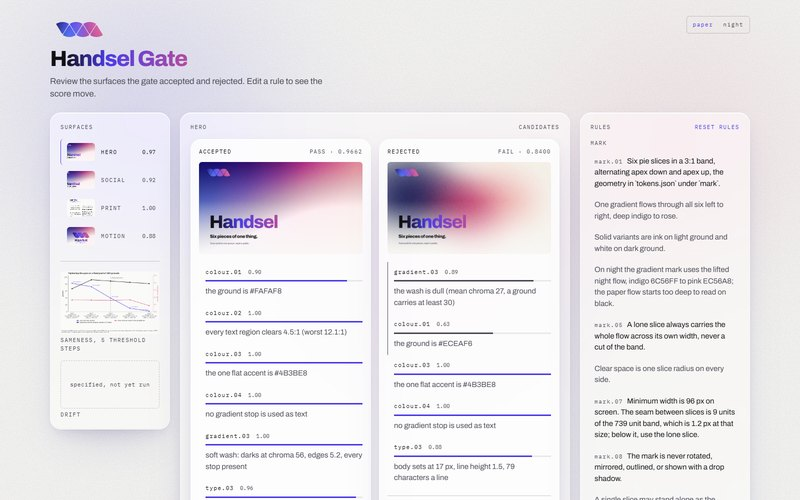
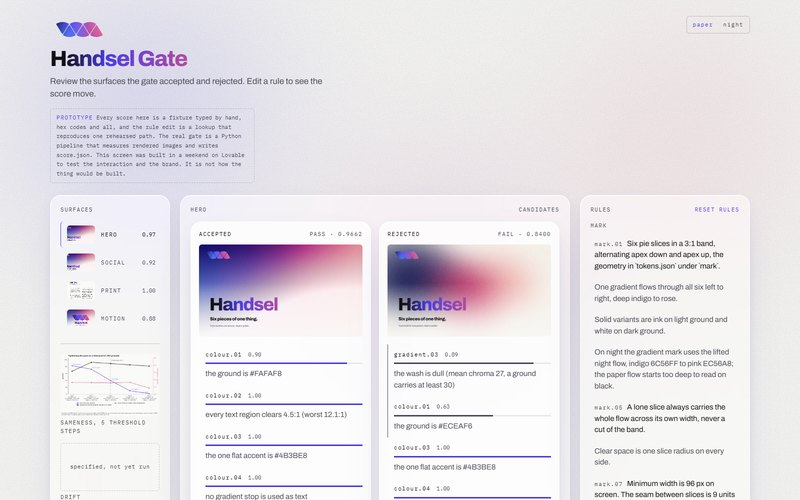
say on the page that the review UI is a prototype, because it looks more finished than it is
The screen reads as a running system and it is not one. Every score on it is a fixture
somebody typed, hex codes and all: `reason: "the ground is #FAFAF8"` is a string, not a
measurement, and rescore.ts is a lookup that reproduces one rehearsed path. A reviewer who
does not know that is reading hand-written constants as output.

So the caveat goes on the page itself, under the title, not only in the README: what it
tests is whether rules written as plain sentences can be the interface a person edits, and
whether a generated app can be held to a brand by construction. Both answered yes. How it
would actually be built is dull and already half there, since the Python gate writes a
score.json per candidate and the fixtures are that file's shape on purpose.

The site's card for it says the same in one line, and the card face is recut from the local
build so the note is visible on it.

diff --git a/site/index.html b/site/index.html
@@ -300,7 +300,7 @@
   <div class="tools">
     <a class="tool glass" href="https://handsel-gate.lovable.app/">
       <img src="assets/tool-gate.jpg" srcset="assets/tool-gate-800.jpg 800w, assets/tool-gate.jpg 1600w" sizes="(min-width: 900px) 560px, 100vw" width="1600" height="1000" alt="Handsel Gate running: a surface list down the left, the accepted and refused hero side by side with their rule scores, and the editable rules panel on the right" loading="lazy">
-      <div class="t"><b>Handsel Gate</b><span>The review tool a brand team would actually sit in, wearing the brand it judges. Every surface, every score, and the sentence that produced it. Built on Lovable, then taken apart and put on the tokens.</span><small>handsel-gate.lovable.app</small></div>
+      <div class="t"><b>Handsel Gate</b><span>Every surface, every score, and the sentence that produced it, with the rule editable in place. A weekend prototype built on Lovable, and the one piece here that is not production: its scores are fixtures typed by hand, and the real gate is a Python pipeline. What it tests is whether rules written as sentences can be the interface, and whether a generated app can be held to a brand by construction.</span><small>handsel-gate.lovable.app</small></div>
     </a>
     <a class="tool glass" href="https://github.com/prekabreki/ck3-llm-chronicler">
       <img src="assets/ck3-chronicle.jpg" srcset="assets/ck3-chronicle-800.jpg 800w, assets/ck3-chronicle.jpg 1600w" sizes="(min-width: 900px) 560px, 100vw" width="1600" height="1000" alt="A chronicle page in the ck3 chronicler: a drop-capped biography set on vellum, the character's arms and titles down the left margin" loading="lazy">

diff --git a/handsgate/src/routes/index.tsx b/handsgate/src/routes/index.tsx
@@ -110,6 +110,19 @@ function HandselGate() {
             <p className="mt-3 max-w-[60ch] text-fg-soft">
               Review the surfaces the gate accepted and rejected. Edit a rule to see the score move.
             </p>
+            {/*
+              Said on the page, not just in the README. A reviewer who does not know this
+              is reading fixtures as if they were a running system, and the first thing
+              they will notice is the hand-typed hex codes in the reasons.
+            */}
+            <p className="mt-4 max-w-[62ch] rounded-chip border border-dashed border-hairline px-3 py-2 font-mono text-[11px] leading-[1.7] text-fg-soft">
+              <span className="tracking-[0.14em] text-indigo uppercase">prototype</span>{" "}
+              Every score here is a fixture typed by hand, hex codes and all, and the rule edit
+              is a lookup that reproduces one rehearsed path. The real gate is a Python pipeline
+              that measures rendered images and writes <code>score.json</code>. This screen was
+              built in a weekend on Lovable to test the interaction and the brand. It is not how
+              the thing would be built.
+            </p>
           </div>
           <ThemeToggle theme={theme} onChange={selectTheme} />
         </header>

diff --git a/handsgate/README.md b/handsgate/README.md
@@ -4,11 +4,31 @@ The screen a brand team uses to review generated brand surfaces that the scoring
 accepted or rejected. The tool is itself a Handsel surface: it is set in the brand type,
 sits on the flow wash, and answers to the same rules it reviews.
 
-It is a static React review tool. There is no login and no backend. Data comes from typed
-fixtures under `src/fixtures/`, shaped the way the gate's own output is shaped, so the app
-can later read the same JSON from disk.
-
 Live build: https://handsel-gate.lovable.app
+
+## What this is, and what it is not
+
+It is a prototype, built in a weekend on Lovable, and it is worth being blunt about that
+because the screen looks more finished than it is.
+
+**It is** a test of two things: whether rules written as plain sentences can be the actual
+interface a person edits, and whether a generated app can be held to a brand by construction.
+Both answered yes. The rehearsed edit works, and every colour, font, radius and rule sentence
+in here is generated from `brand/tokens.json` and `brand/rules.json` rather than typed.
+
+**It is not** how this would be built. Every score on the page is a fixture typed by hand,
+hex codes and all: `reason: "the ground is #FAFAF8"` is a string somebody wrote, not a
+measurement. `src/gate/rescore.ts` is a lookup that reproduces one rehearsed path, not a
+scorer. Nothing reads the filesystem, nothing calls the pipeline, and there is no backend.
+
+In production the shape is obvious and dull: the Python gate in `pipeline/` already writes a
+`score.json` per candidate, the fixtures in `src/fixtures/` are that file's shape on purpose,
+and `rescore.ts` is the seam where the real thing plugs in. The interesting work was never
+going to be the React.
+
+That caveat is on the page itself, under the title, not only here.
+
+There is no login and no backend.
 
 ## Run it
 

diff --git a/site/tools/README.md b/site/tools/README.md
@@ -9,7 +9,7 @@ Where a tool has no UI to screenshot, the card is real terminal output instead, 
 
 | file | what it is | how it was captured, 2026-09-18 |
 |---|---|---|
-| `shot-gate.png` | Handsel Gate, the review UI from #5 | The deployed Lovable build at `handsel-gate.lovable.app`, Chrome at 1600 by 1000. Cropped on the build to drop the Lovable badge in the corner. |
+| `shot-gate.png` | Handsel Gate, the review UI from #5 | The local build after the post-export pass, Chrome at 1600 by 1000. Retaken 2026-09-18 so the face shows the real mark, the real surface renders, the real sameness figure and the prototype note, none of which the deployed build has yet. |
 | `shot-swice.png` | Swice Daily, today's page | The live instance on the Pi over Tailscale, Chrome at 1500 by 1000. The day's suggestion, no submitted writing on screen. |
 | `shot-fetchforge.png` | FetchForge, the conversion panel | `github.com/prekabreki/FetchForge` at HEAD, its own server on 8765, scrolled to the Video URL and Conversion sections. The auth panel above them is a cookie state, not the tool working, so the card starts below it. |
 | `shot-scorescout.png` | ScoreScout, a real analysis report | `github.com/prekabreki/ScoreScout` at HEAD, run over Joplin's Maple Leaf Rag from the music21 corpus: `cli.py maple_leaf_rag.musicxml --no-llm --format html`. 579 of 579 chords identified locally, no model call. |
